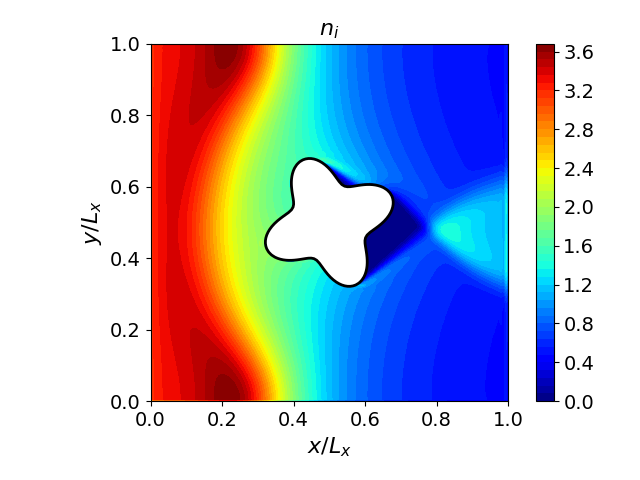
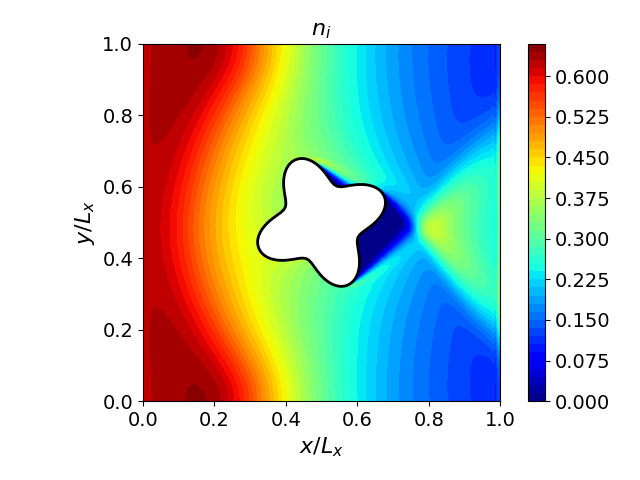
updated star example settings adn plots

diff --git a/examples/star/make_anime.py b/examples/star/make_anime.py
@@ -22,7 +22,7 @@ plt.rcParams.update(
 
 # Animation parameters
 total_steps = 1000
-frame_interval = 5
+frame_interval = 10
 start_step = 0
 
 # Grid parameters
@@ -49,13 +49,12 @@ def surface(x, y):
 
 def load_data(step):
     try:
-        with h5py.File(
-            f"{file_path}/../../data/star/output_{step:04d}.h5", "r"
-        ) as f:
+        with h5py.File(f"{file_path}/../../data/star/output_{step:04d}.h5", "r") as f:
             ni = f["VTKHDF/CellData/ni"][:].reshape(nx + 2 * G, ny + 2 * G)
             phi = f["VTKHDF/CellData/phi"][:].reshape(nx + 2 * G, ny + 2 * G)
             Ex = f["VTKHDF/CellData/Ex"][:].reshape(nx + 2 * G, ny + 2 * G)
-        return ni, phi, Ex
+            Ey = f["VTKHDF/CellData/Ey"][:].reshape(nx + 2 * G, ny + 2 * G)
+        return ni, phi, Ex, Ey
     except FileNotFoundError:
         return None, None, None
 
@@ -66,76 +65,92 @@ def draw_star(ax):
 
 
 # Set up figure and subplots
-fig, (ax1, ax2, ax3) = plt.subplots(1, 3, figsize=(20, 6))
+fig, ax = plt.subplots(2, 2, figsize=(10, 10))
 
 # Preload first frame to create colorbars once
-ni0, phi0, Ex0 = load_data(start_step)
+ni0, phi0, Ex0, Ey0 = load_data(start_step)
 if ni0 is None:
     raise FileNotFoundError(f"No data found at step {start_step}")
 
-ni_norm = mcolors.Normalize(vmin=0, vmax=4.5)
+ni_norm = mcolors.Normalize(vmin=0, vmax=0.8)
 phi_norm = mcolors.Normalize(vmin=phi0.min(), vmax=phi0.max())
-Ex_norm = mcolors.Normalize(vmin=-350, vmax=500)
+Ex_norm = mcolors.Normalize(vmin=-200, vmax=400)
+Ey_norm = mcolors.Normalize(vmin=-200, vmax=400)
 
-ax1.contourf(X, Y, ni0, cmap="jet", levels=50, norm=ni_norm)
-cb1 = fig.colorbar(cm.ScalarMappable(norm=ni_norm, cmap="jet"), ax=ax1)
+ax[0, 0].contourf(X, Y, ni0, cmap="jet", levels=50, norm=ni_norm)
+cb1 = fig.colorbar(cm.ScalarMappable(norm=ni_norm, cmap="jet"), ax=ax[0, 0])
 if is_include_star:
-    draw_star(ax1)
-ax1.set_xlim(0, Lx)
-ax1.set_ylim(0, Ly)
-ax1.set_xlabel("$x/L_x$")
-ax1.set_ylabel("$y/L_x$")
-ax1.set_aspect("equal")
+    draw_star(ax[0, 0])
+ax[0, 0].set_xlim(0, Lx)
+ax[0, 0].set_ylim(0, Ly)
+ax[0, 0].set_xlabel("$x/L_x$")
+ax[0, 0].set_ylabel("$y/L_x$")
+ax[0, 0].set_aspect("equal")
 
-c2 = ax2.contourf(X, Y, phi0, cmap="jet", levels=50, norm=phi_norm)
-cb2 = fig.colorbar(cm.ScalarMappable(norm=phi_norm, cmap="jet"), ax=ax2)
+c2 = ax[0, 1].contourf(X, Y, phi0, cmap="jet", levels=50, norm=phi_norm)
+cb2 = fig.colorbar(cm.ScalarMappable(norm=phi_norm, cmap="jet"), ax=ax[0, 1])
 if is_include_star:
-    draw_star(ax2)
-ax2.set_xlim(0, Lx)
-ax2.set_ylim(0, Ly)
-ax2.set_xlabel("$x/L_x$")
-ax2.set_ylabel("$y/L_x$")
-ax2.set_aspect("equal")
+    draw_star(ax[0, 1])
+ax[0, 1].set_xlim(0, Lx)
+ax[0, 1].set_ylim(0, Ly)
+ax[0, 1].set_xlabel("$x/L_x$")
+ax[0, 1].set_ylabel("$y/L_x$")
+ax[0, 1].set_aspect("equal")
 
-c3 = ax3.contourf(X, Y, Ex0, cmap="jet", levels=50, norm=Ex_norm)
-cb3 = fig.colorbar(cm.ScalarMappable(norm=Ex_norm, cmap="jet"), ax=ax3)
+c3 = ax[1, 0].contourf(X, Y, Ex0, cmap="jet", levels=50, norm=Ex_norm)
+cb3 = fig.colorbar(cm.ScalarMappable(norm=Ex_norm, cmap="jet"), ax=ax[1, 0])
 if is_include_star:
-    draw_star(ax3)
-ax3.set_xlim(0, Lx)
-ax3.set_ylim(0, Ly)
-ax3.set_xlabel("$x/L_x$")
-ax3.set_ylabel("$y/L_x$")
-ax3.set_aspect("equal")
+    draw_star(ax[1, 0])
+ax[1, 0].set_xlim(0, Lx)
+ax[1, 0].set_ylim(0, Ly)
+ax[1, 0].set_xlabel("$x/L_x$")
+ax[1, 0].set_ylabel("$y/L_x$")
+ax[1, 0].set_aspect("equal")
+
+c4 = ax[1, 1].contourf(X, Y, Ey0, cmap="jet", levels=50, norm=Ex_norm)
+cb4 = fig.colorbar(cm.ScalarMappable(norm=Ey_norm, cmap="jet"), ax=ax[1, 1])
+if is_include_star:
+    draw_star(ax[1, 1])
+ax[1, 1].set_xlim(0, Lx) 
+ax[1, 1].set_ylim(0, Ly)
+ax[1, 1].set_xlabel("$x/L_x$")
+ax[1, 1].set_ylabel("$y/L_x$")
+ax[1, 1].set_aspect("equal")
 
 fig.tight_layout()
 
 
 def animate(frame):
     current_step = start_step + frame * frame_interval
-    ni, phi, Ex = load_data(current_step)
+    ni, phi, Ex, Ey = load_data(current_step)
 
     if ni is None:
         return []
 
     # Remove old collections from data axes only (colorbar axes are untouched)
-    for ax in (ax1, ax2, ax3):
-        for coll in list(ax.collections):
+    for _ax in ax.flatten():
+        for coll in list(_ax.collections):
             coll.remove()
 
-    ax1.contourf(X, Y, ni, cmap="jet", levels=50, norm=ni_norm)
+    ax[0, 0].contourf(X, Y, ni, cmap="jet", levels=50, norm=ni_norm)
     if is_include_star:
-        draw_star(ax1)
-    ax1.set_title(f"$n_i$ (Step: {current_step})")
+        draw_star(ax[0, 0])
+    ax[0, 0].set_title(f"$n_i$ (Step: {current_step})")
 
-    ax2.contourf(X, Y, phi, cmap="jet", levels=50, norm=phi_norm)
+    ax[0, 1].contourf(X, Y, phi, cmap="jet", levels=50, norm=phi_norm)
     if is_include_star:
-        draw_star(ax2)
-    ax2.set_title(f"$e\\phi/2k_BT_i$ (Step: {current_step})")
+        draw_star(ax[0, 1])
+    ax[0, 1].set_title(f"$e\\phi/2k_BT_i$ (Step: {current_step})")
 
-    ax3.contourf(X, Y, Ex, cmap="jet", levels=50, norm=Ex_norm)
+    ax[1, 0].contourf(X, Y, Ex, cmap="jet", levels=50, norm=Ex_norm)
     if is_include_star:
-        draw_star(ax3)
-    ax3.set_title(f"$E_x$ (Step: {current_step})")
+        draw_star(ax[1, 0])
+    ax[1, 0].set_title(f"$E_x$ (Step: {current_step})")
+
+    ax[1, 1].contourf(X, Y, Ey, cmap="jet", levels=50, norm=Ey_norm)
+    if is_include_star:
+        draw_star(ax[1, 1])
+    ax[1, 1].set_title(f"$E_y$ (Step: {current_step})")
 
     return ()
 

diff --git a/examples/star/plottings.py b/examples/star/plottings.py
@@ -21,14 +21,13 @@ Lx, Ly = 1, 1
 G = 3
 is_include_star = True
 
-step = 400
+step = 1000
 file_path = os.path.dirname(os.path.realpath(__file__))
 with h5py.File(
     f"{file_path}/../../data/star/output_{step:04d}.h5",
     "r",
 ) as f:
     ni = f["VTKHDF/CellData/ni"][:].reshape(nx + 2 * G, ny + 2 * G)
-    Ex = f["VTKHDF/CellData/Ex"][:].reshape(nx + 2 * G, ny + 2 * G)
     phi = f["VTKHDF/CellData/phi"][:].reshape(nx + 2 * G, ny + 2 * G)
 
 dx = Lx / nx
@@ -73,37 +72,5 @@ ax.set_ylabel("$y/L_x$")
 ax.set_aspect("equal")
 plt.tight_layout()
 plt.savefig(f"{file_path}/potential.png")
-
-fig, ax = plt.subplots()
-c = ax.contourf(X, Y, Ex, cmap="jet", levels=50)
-plt.colorbar(c)
-plt.title("$eE_x/m_ev_{th,e}\\omega_{pe}$")
-if is_include_star:
-    ax.contourf(X, Y, surface(X,Y), levels=[-100, 0], colors='white')
-    ax.contour(X, Y, surface(X,Y), levels=[0], colors='black', linewidths=2)
-ax.set_xlim(dx / 2, Lx - dx / 2)
-ax.set_ylim(dy / 2, Ly - dy / 2)
-ax.set_xlabel("$x/L_x$")
-ax.set_ylabel("$y/L_x$")
-ax.set_aspect("equal")
-plt.tight_layout()
-plt.savefig(f"{file_path}/electric_field.png")
-
-plt.figure()
-plt.plot(x, Ex[:, G], "o-", label="$y=0$")
-plt.plot(x, Ex[:, -G], "o-", label="$y=0.5$")
-plt.xlabel("$x/L_x$")
-plt.ylabel("$E_x$")
-ax.set_aspect("equal")
-plt.legend()
-plt.savefig(f"{file_path}/electric_field_profiles.svg")
-
-plt.figure()
-plt.plot(x, phi[:, G], "o-", label="$y=0$")
-plt.plot(x, phi[:, -G], "o-", label="$y=0.5$")
-plt.xlabel("$x/L_x$")
-plt.ylabel("$\\phi$")
-plt.legend()
-plt.savefig(f"{file_path}/potential_profiles.png")
 
 plt.show()

diff --git a/examples/star/main.cpp b/examples/star/main.cpp
@@ -69,7 +69,7 @@ struct ImmersedWorld : World<ImmersedWorld> {
                 auto [x, y, vx, vy] = grid.center(i, j, iv, jv);
                 if (i < ngc) {
                     f(i, j, iv, jv) =
-                        (vx > 0.0) ? exp(-pow(vx - 5, 2)) * exp(-pow(vy, 2)) : 0.0; // left boundary, injection
+                        (vx > 0.0) ? exp(-pow(vx - 5, 2)) * exp(-pow(vy, 2)) / 5 : 0.0; // left boundary, injection
                 } else if (i >= nx - ngc) {
                     if (vx < 0.0)
                         f(i, j, iv, jv) = 0.0; // right boundary, zero-inflow
@@ -144,7 +144,7 @@ int main(int argc, char* argv[]) {
     world.diag_steps  = diag_steps;  // number of steps between diagnostics
 
     PoissonSolver2ndOrder poisson_solver(world, 1e-12);
-    Writer writer(world, output_folder, output_prefix, {"ni", "phi", "Ex"});
+    Writer writer(world, output_folder, output_prefix, {"ni", "phi", "Ex", "Ey"});
     Vlasolver vlasolver(world, poisson_solver, writer);
 
     Kokkos::Timer timer;

diff --git a/examples/star/mesh.py b/examples/star/mesh.py
@@ -19,7 +19,8 @@ def surface(x, y):
     y0 = 0.5
     rr = np.sqrt(np.pow(x - x0, 2) + np.pow(y - y0, 2));
     ang = np.atan2(y - y0, x - x0);
-    return rr - (0.15 + 0.04 * np.sin(4 * ang));
+    # return rr - (0.15 + 0.04 * np.sin(4 * ang));
+    return rr - (0.075 + 0.02 * np.sin(4 * ang));
 
 # Create a base image - light gray background for the mesh
 img = np.ones((ny_cells, nx_cells)) * np.nan
